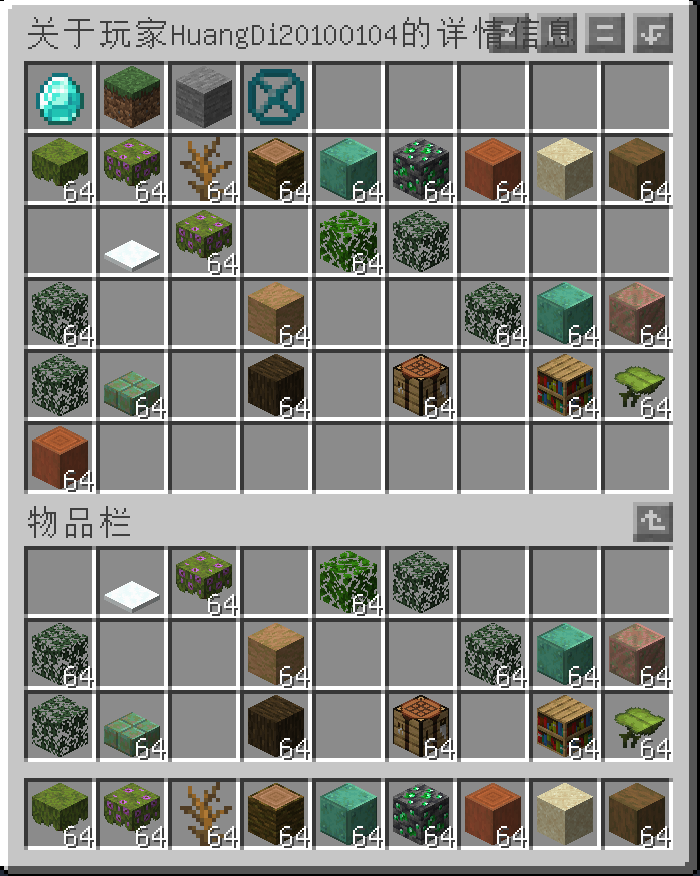
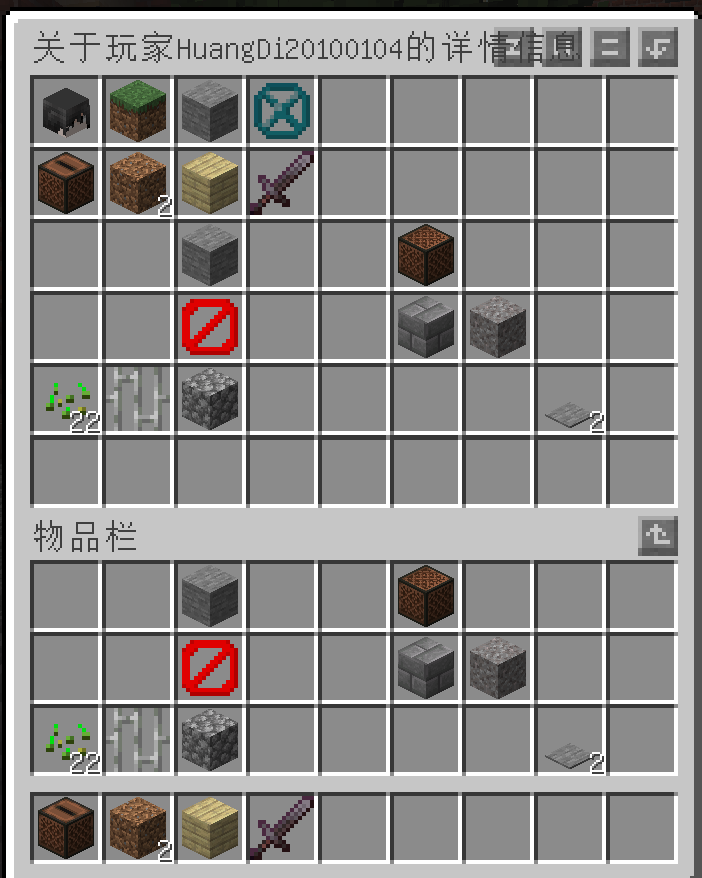
插件源代码

diff --git a/readme.md b/readme.md
@@ -26,11 +26,13 @@ dishao插件,轻量级的基于spigotapi1.16+的基础插件
    \- bukkit.command.tps  
    \#非op玩家关闭的权限  
    off-permissions-list:  
-   \- minecraft.command.seed
+   \- minecraft.command.seed  
    \#插件启动时检测更新  
    detect-updates: true  
    \#服务器标题  
-   server-motd:  
+   server-motd:
+   \#是否开启标题功能
+   enable: true
    \#服务器标题列表("%nl%"代表换行)  
    motd-list:  
    \- 第一行%nl%第二行  
@@ -44,6 +46,14 @@ dishao插件,轻量级的基于spigotapi1.16+的基础插件
    superuser: ''  
    \#名字范围  
    name-range: ^[A-Za-z\u4e00-\u9fa50-9_\-]+$  
+   #正版验证查询请在网络通畅的情况下开启(更改后请重启服务器,reload对该选项无效)  
+   player-online-check: false  
+   #进入游戏的消息("%player%"表示玩家名字)  
+   join-message: §9玩家%player%加入了游戏!  
+   #退出游戏的消息("%player%"表示玩家名字)  
+   quit-message: §c玩家%player%退出了游戏!  
+   #正版玩家的前缀(没有请用双引号代替,只对tab列表和聊天栏有效)  
+   online-player-prefix: §a[正版玩家]§r  
 2. 权限列表:
    dishao.tp: 传送命令的权限   
    dishao.tell:  私聊命令的权限  
@@ -121,7 +131,7 @@ dishao插件,轻量级的基于spigotapi1.16+的基础插件
 当player的背包被更改,世界被更改,移动或传送时,将调用Pinv对象中的上传方法,背包,将盔甲,游戏模式,所在世界,和位置上传至详情界面
 详情界面为一个6*9的物品栏,如下图:  
 ![](./playerinfogui.png)  
-当鼠标放到钻石上时,会显示玩家的名字,如下图  
+当鼠标放到头颅上时,会显示,玩家正版验证状态,玩家的名字,如下图  
 ![](./name.png)  
 当鼠标放到第三个物品上时,会显示玩家的游戏模式,根据游戏模式,图标也会变化(和客户端使用f3+f4切换游戏模式时图标一样),如下图:  
 ![](./0.png)  
@@ -139,9 +149,9 @@ dishao插件,轻量级的基于spigotapi1.16+的基础插件
 
 # 各个文件夹的作用
 ## PlayerData
-顾名思义,存放了每个登陆过玩家的名字,uuid,最后一次登录ip,血量,游戏模式,是否为op
+顾名思义,存放了每个登陆过玩家的名字,uuid,最后一次登录ip,是否为正版
 ## ImageData
-储存每个地图对应图片的文件,请尽量不要删除,否则后果不堪设想!
+储存每个地图对应图片的文件,请尽量不要删除!
 ## image
 储存需要在地图上出现的图片,如果你使用了文件夹内的文件,请不要再将它删除,否则服务端可能会不停的报错!
 # 参与贡献
